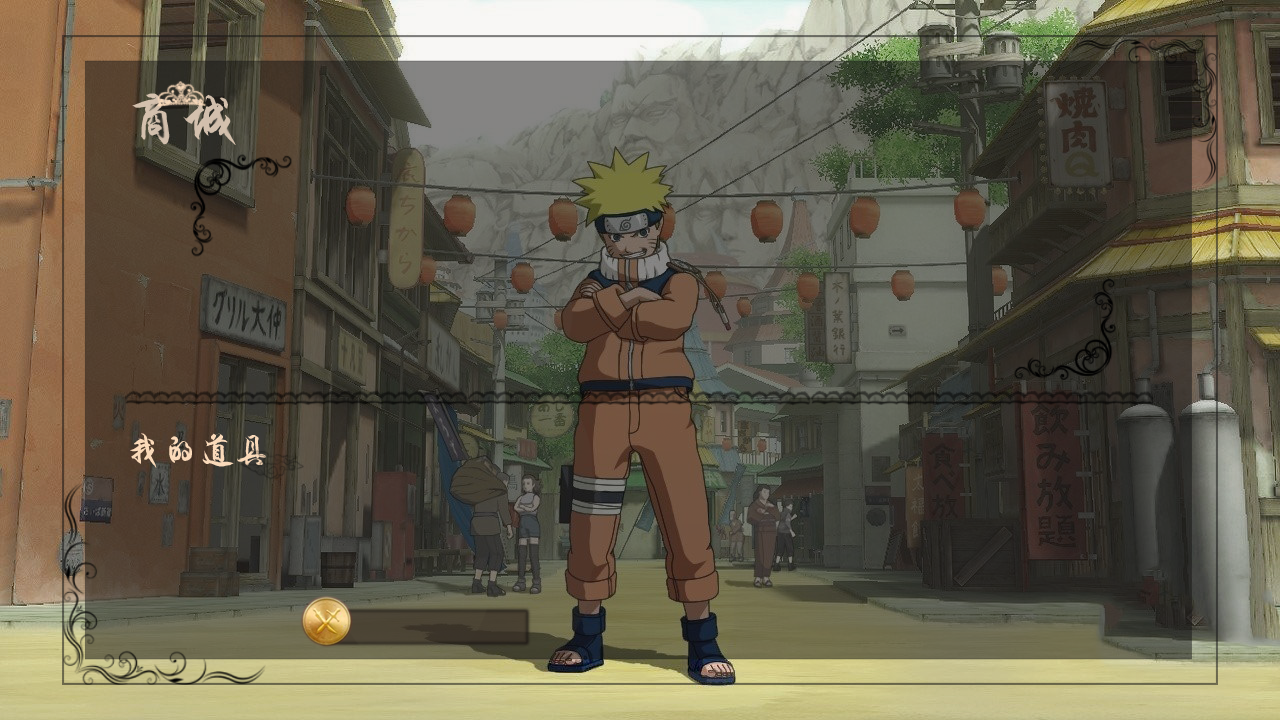
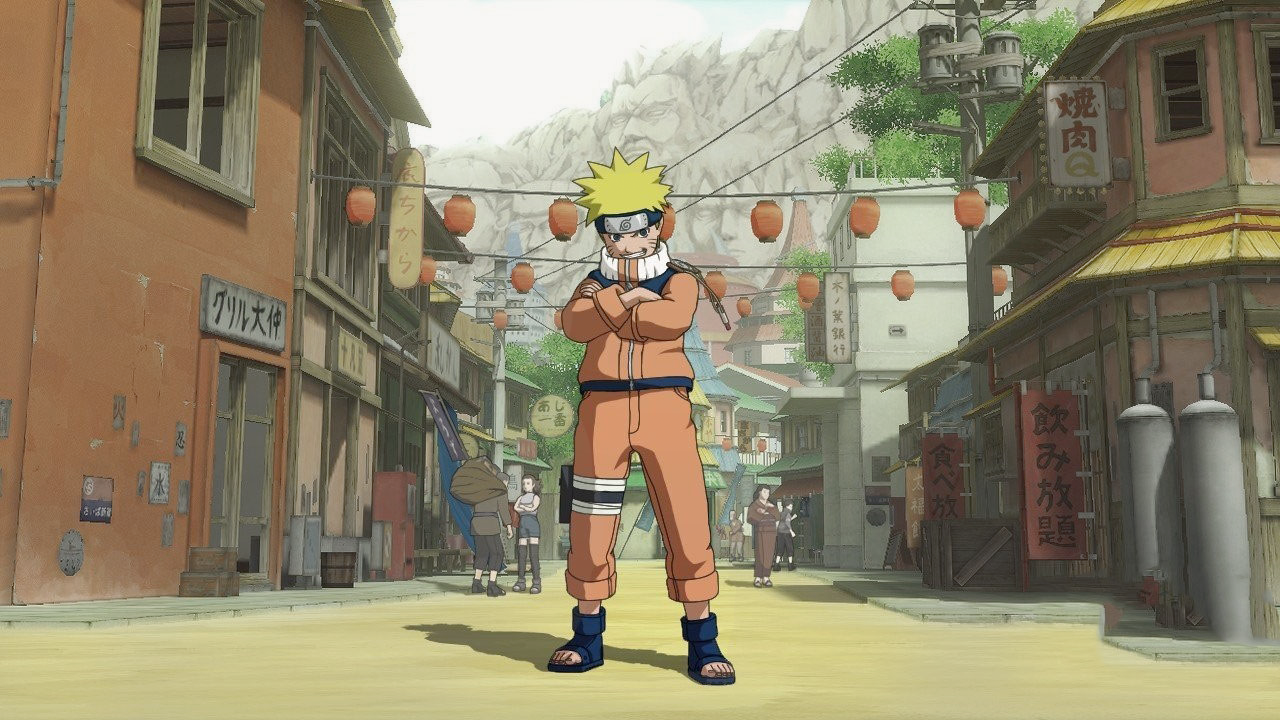
调整设置界面调用方式

diff --git a/src/el/onetoone/ui/SyntheticModel.java b/src/el/onetoone/ui/SyntheticModel.java
@@ -21,7 +21,7 @@ abstract public class SyntheticModel extends Pane {
 	/**
 	 * 用于显示错误信息，比如尚未登录啊之类的
 	 */
-	
+
 	private Scene scene;
 	private Text wrongMessage;
 
@@ -47,15 +47,16 @@ abstract public class SyntheticModel extends Pane {
 	protected ImageView backgroundImg;
 
 	abstract protected void createFuncButton();
+
 	abstract protected void createModeButton();
-	
+
 	public SyntheticModel() {
 
 		init();
 	}
-	
+
 	public Scene getSyntheticScene() {
-		
+
 		scene = new Scene(this, Config.SCREEN_WIDTH, Config.SCREEN_HEIGHT);
 		scene.getStylesheets().add(InitialView.class.getResource("initialView.css").toExternalForm());
 		return scene;
@@ -84,7 +85,6 @@ abstract public class SyntheticModel extends Pane {
 		this.getChildren().add(backgroundImg);
 	}
 
-
 	private void createExitButton() {
 
 		exitButton = new SystemButton(0);
@@ -94,7 +94,7 @@ abstract public class SyntheticModel extends Pane {
 
 		exitButton.setOnAction(e -> {
 			AudioClip audioClip = new AudioClip(Main.class.getResource("sound/click.wav").toExternalForm());
-//			System.out.println("OK");
+			// System.out.println("OK");
 			audioClip.play();
 			System.exit(0);
 		});
@@ -117,7 +117,7 @@ abstract public class SyntheticModel extends Pane {
 
 		logOutButton.setOnAction(e -> {
 			AudioClip audioClip = new AudioClip(Main.class.getResource("sound/click.wav").toExternalForm());
-//			System.out.println("OK");
+			// System.out.println("OK");
 			audioClip.play();
 			Config.getMain().setScene(Config.getTheme().getInitialScene());
 			UserBox.setUser(null);
@@ -239,13 +239,9 @@ abstract public class SyntheticModel extends Pane {
 		});
 
 		settingButton.setOnAction(e -> {
-			if (UserBox.hasNotLogin()) {
-				
-			} else {
-				AudioClip audioClip = new AudioClip(Main.class.getResource("sound/click.wav").toExternalForm());
-//				System.out.println("OK");
-				audioClip.play();
-			}
+			getChildren().add(Config.getTheme().getSettingPane());
+			AudioClip audioClip = new AudioClip(Main.class.getResource("sound/click.wav").toExternalForm());
+			audioClip.play();
 		});
 
 	}

diff --git a/src/el/onetoone/ui/MagicGirlTheme.java b/src/el/onetoone/ui/MagicGirlTheme.java
@@ -5,6 +5,7 @@ import el.onetoone.ui.magicgirl.MagicInitialScene;
 import el.onetoone.ui.magicgirl.MagicLoginScene;
 import el.onetoone.ui.magicgirl.MagicMaxMarkScene;
 import el.onetoone.ui.magicgirl.MagicRegisterScene;
+import el.onetoone.ui.magicgirl.MagicSettingPane;
 import el.onetoone.ui.magicgirl.MagicSyntheticPanel;
 import javafx.scene.Scene;
 import javafx.scene.image.Image;
@@ -105,11 +106,6 @@ public class MagicGirlTheme extends Theme {
 		return new MagicRegisterScene(new Pane(), Config.SCREEN_WIDTH, Config.SCREEN_HEIGHT).getRegisterScene();
 	}
 
-	@Override
-	public Scene getSettingScene() {
-		// TODO Auto-generated method stub
-		return null;
-	}
 
 	@Override
 	public Scene getMaxMarkScene() {
@@ -134,5 +130,11 @@ public class MagicGirlTheme extends Theme {
 	public Scene getSynScene() {
 		// TODO Auto-generated method stub
 		return new MagicSyntheticPanel().getSyntheticScene();
+	}
+
+	@Override
+	public Pane getSettingPane() {
+		// TODO Auto-generated method stub
+		return new MagicSettingPane();
 	}
 }

diff --git a/src/el/onetoone/ui/GameMain.java b/src/el/onetoone/ui/GameMain.java
@@ -3,19 +3,13 @@ package el.onetoone.ui;
 import el.onetoone.back.BaseDiamondGrid;
 import el.onetoone.back.Config;
 import el.onetoone.back.ItemList;
-import javafx.scene.Group;
 import javafx.scene.ImageCursor;
-import javafx.scene.Node;
-import javafx.scene.Scene;
 import javafx.scene.control.Button;
-import javafx.scene.effect.GaussianBlur;
 import javafx.scene.image.ImageView;
 import javafx.scene.layout.HBox;
 import javafx.scene.layout.Pane;
 import javafx.scene.layout.TilePane;
 import javafx.scene.layout.VBox;
-import javafx.scene.paint.Color;
-import javafx.stage.Stage;
 
 public class GameMain extends Pane {
 
@@ -260,11 +254,6 @@ public class GameMain extends Pane {
 			diamondGrid.timeProperty().set(Config.START_TIME);
 			gamePanel.restart();
 		});
-	}
-
-	private void goBackToLastScene() {
-
-		((Pane) getParent()).getChildren().remove(this);
 	}
 
 	public String getMode() {

diff --git a/src/el/onetoone/ui/ContentText.java b/src/el/onetoone/ui/ContentText.java
@@ -2,9 +2,6 @@ package el.onetoone.ui;
 
 import el.onetoone.back.BaseDiamondGrid;
 import el.onetoone.back.Config;
-import javafx.beans.binding.StringBinding;
-import javafx.beans.property.SimpleStringProperty;
-import javafx.beans.property.StringProperty;
 import javafx.concurrent.Task;
 import javafx.scene.text.Font;
 import javafx.scene.text.Text;
@@ -45,11 +42,11 @@ public class ContentText extends Text{
 			protected Void call() throws Exception {
 				// TODO Auto-generated method stub
 				int currentTime = diamondGrid.timeProperty().get();
-				while ((currentTime = diamondGrid.timeProperty().get()) != 0) {
+				while (diamondGrid.timeProperty().get() != 0) {
 					
 					
 					Thread.sleep(1000);
-					diamondGrid.timeProperty().set(--currentTime);
+					diamondGrid.timeProperty().set(diamondGrid.timeProperty().get() - 1);
 				}
 				gamePanel.gameOver();
 				return null;

diff --git a/src/el/onetoone/ui/Theme.java b/src/el/onetoone/ui/Theme.java
@@ -18,6 +18,7 @@ public abstract class Theme {
 	public static final Image PROPS_HAMMER = new Image("/image/props_hammer.png");
 	public static final Image PROPS_NEW_MAP = new Image("/image/props_new_map.png");
 	public static final Image PROPS_BOOM = new Image("/image/props_boom.png");
+	public static final Image BG_SHOP_PANEL = new Image("/image/bg_shop_panel.png", true);
 
 	
 	protected Image ICON_INDEFINITE;
@@ -395,7 +396,7 @@ public abstract class Theme {
 
 	public abstract Scene getRegisterScene();
 
-	public abstract Scene getSettingScene();
+	public abstract Pane getSettingPane();
 
 	public abstract Scene getMaxMarkScene();
 

diff --git a/src/el/onetoone/ui/naruto/NarutoTheme.java b/src/el/onetoone/ui/naruto/NarutoTheme.java
@@ -82,11 +82,6 @@ public class NarutoTheme extends Theme{
 		return new NarutoRegisterScene(new Pane(), Config.SCREEN_WIDTH, Config.SCREEN_HEIGHT).getRegisterScene();
 	}
 
-	@Override
-	public Scene getSettingScene() {
-		// TODO Auto-generated method stub
-		return null;
-	}
 
 	@Override
 	public Scene getMaxMarkScene() {
@@ -110,6 +105,12 @@ public class NarutoTheme extends Theme{
 	public Scene getSynScene() {
 		
 		return new NarutoSynthetic().getSyntheticScene();
+	}
+
+	@Override
+	public Pane getSettingPane() {
+		// TODO Auto-generated method stub
+		return null;
 	}
 
 }

diff --git a/src/el/onetoone/ui/DiamondCircle.java b/src/el/onetoone/ui/DiamondCircle.java
@@ -2,7 +2,6 @@ package el.onetoone.ui;
 
 
 import el.onetoone.back.Point;
-import javafx.animation.Animation;
 import javafx.animation.FadeTransition;
 import javafx.animation.Interpolator;
 import javafx.animation.KeyFrame;
@@ -11,7 +10,6 @@ import javafx.animation.ParallelTransition;
 import javafx.animation.RotateTransition;
 import javafx.animation.Timeline;
 import javafx.animation.TranslateTransition;
-import javafx.scene.effect.Bloom;
 import javafx.scene.effect.BlurType;
 import javafx.scene.effect.ColorAdjust;
 import javafx.scene.effect.DropShadow;

diff --git a/src/el/onetoone/ui/magicgirl/MagicSyntheticPanel.java b/src/el/onetoone/ui/magicgirl/MagicSyntheticPanel.java
@@ -1,16 +1,11 @@
 package el.onetoone.ui.magicgirl;
 
 import el.onetoone.back.Config;
-import el.onetoone.ui.InitialView;
 import el.onetoone.ui.SyntheticModel;
-import el.onetoone.ui.SystemButton;
-import el.onetoone.ui.SyntheticModel.SyntheticButton;
-import el.onetoone.ui.shop.MarketPanel;
 import javafx.geometry.Pos;
 import javafx.scene.control.Button;
 import javafx.scene.image.ImageView;
 import javafx.scene.layout.HBox;
-import javafx.scene.layout.Pane;
 import javafx.scene.layout.VBox;
 
 public class MagicSyntheticPanel extends SyntheticModel {

diff --git a/src/el/onetoone/back/Config.java b/src/el/onetoone/back/Config.java
@@ -3,7 +3,6 @@ package el.onetoone.back;
 import el.onetoone.ui.MagicGirlTheme;
 import el.onetoone.ui.Main;
 import el.onetoone.ui.Theme;
-import el.onetoone.ui.naruto.NarutoTheme;
 
 public class Config {
 
@@ -15,7 +14,7 @@ public class Config {
 	public static final int START_TIME = 60;
 	public static final int START_STEP = 2;
 	
-	public static Theme theme = new NarutoTheme();
+	public static Theme theme = new MagicGirlTheme();
 	
 	public static Theme getTheme() {
 		return Config.theme;

diff --git a/src/el/onetoone/ui/magicgirl/MagicLoginScene.java b/src/el/onetoone/ui/magicgirl/MagicLoginScene.java
@@ -8,11 +8,9 @@ import javafx.scene.Scene;
 import javafx.scene.SceneAntialiasing;
 import javafx.scene.image.Image;
 import javafx.scene.image.ImageView;
-import javafx.scene.layout.GridPane;
 import javafx.scene.layout.Pane;
 import javafx.scene.paint.Paint;
 import javafx.scene.text.Font;
-import javafx.scene.text.Text;
 
 public class MagicLoginScene extends LoginScene {
 

diff --git a/src/el/onetoone/ui/shop/MarketPanel.java b/src/el/onetoone/ui/shop/MarketPanel.java
@@ -1,12 +1,7 @@
 package el.onetoone.ui.shop;
 
 import el.onetoone.back.Config;
-import el.onetoone.back.ItemList;
-import el.onetoone.back.UserBox;
-import javafx.collections.FXCollections;
-import javafx.collections.MapChangeListener;
 import javafx.collections.ObservableMap;
-import javafx.scene.Group;
 import javafx.scene.layout.Pane;
 import javafx.scene.text.Text;
 

diff --git a/src/el/onetoone/ui/naruto/NarutoRegisterScene.java b/src/el/onetoone/ui/naruto/NarutoRegisterScene.java
@@ -10,7 +10,6 @@ import el.onetoone.ui.naruto.NarutoLoginScene.LoginAndRegisterButton;
 import javafx.scene.Parent;
 import javafx.scene.Scene;
 import javafx.scene.SceneAntialiasing;
-import javafx.scene.control.Button;
 import javafx.scene.control.PasswordField;
 import javafx.scene.control.TextField;
 import javafx.scene.image.Image;
